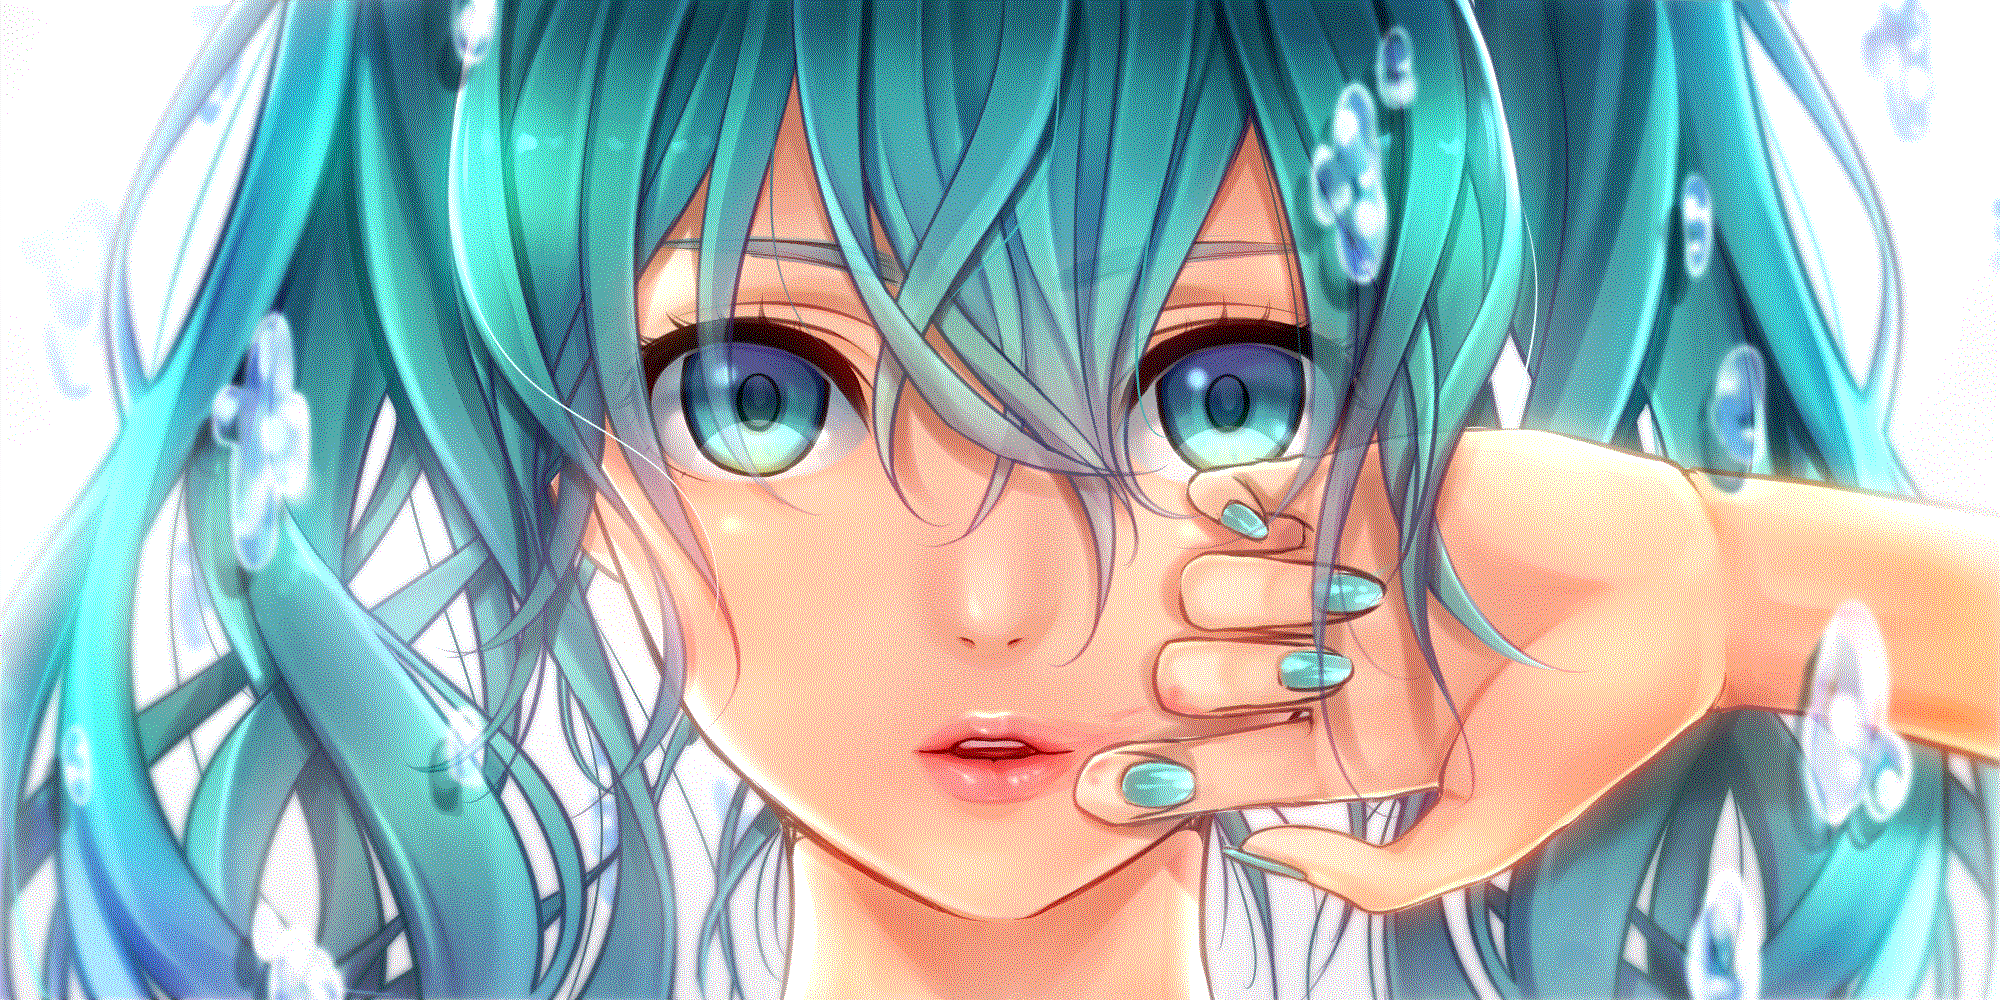
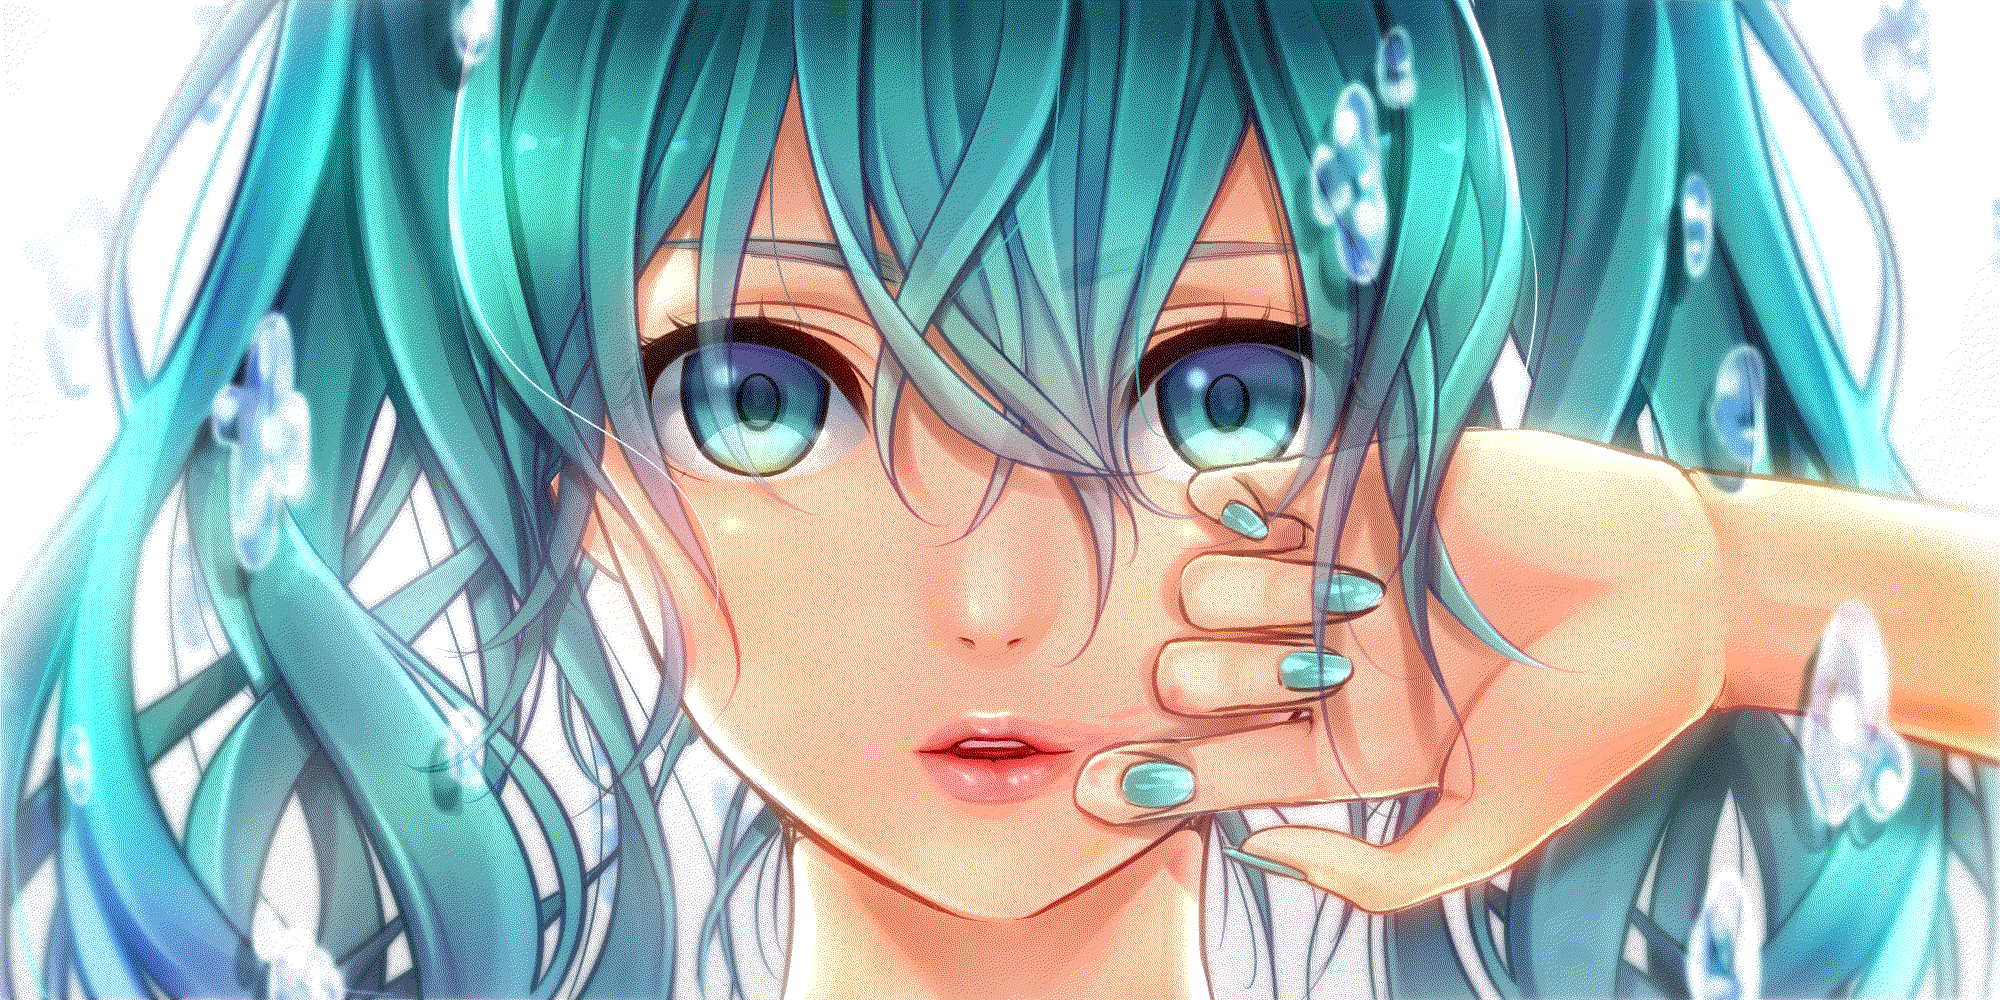
add serpentine dithering and gamma correction

diff --git a/dithering.py b/dithering.py
@@ -5,9 +5,6 @@ Created on Fri Feb 25 15:12:44 2022
 @author: Christian Konstantinov
 """
 
-# TODO: Add alpha channel support
-# TODO: Add filter preturbation
-
 from functools import lru_cache
 from enum import Enum
 from typing import Tuple
@@ -146,39 +143,39 @@ class DiffusionMatrix(Enum):
 
 
 def atkinson(image, bit_depth, serpentine: bool = False):
-    return dither(image, bit_depth, DiffusionMatrix.ATKINSON.bidirectional)
+    return dither(image, bit_depth, DiffusionMatrix.ATKINSON.bidirectional, serpentine)
 
 
 def burkes(image, bit_depth, serpentine: bool = False):
-    return dither(image, bit_depth, DiffusionMatrix.BURKES.bidirectional)
+    return dither(image, bit_depth, DiffusionMatrix.BURKES.bidirectional, serpentine)
 
 
 def floyd_steinberg(image, bit_depth, serpentine: bool = False):
-    return dither(image, bit_depth, DiffusionMatrix.FLOYD_STEINBERG.bidirectional)
+    return dither(image, bit_depth, DiffusionMatrix.FLOYD_STEINBERG.bidirectional, serpentine)
 
 
 def false_floyd_steinberg(image, bit_depth, serpentine: bool = False):
-    return dither(image, bit_depth, DiffusionMatrix.FALSE_FLOYD_STEINBERG.bidirectional)
+    return dither(image, bit_depth, DiffusionMatrix.FALSE_FLOYD_STEINBERG.bidirectional, serpentine)
 
 
 def jarvis_judice_ninke(image, bit_depth, serpentine: bool = False):
-    return dither(image, bit_depth, DiffusionMatrix.JARVIS_JUDICE_NINKE.bidirectional)
+    return dither(image, bit_depth, DiffusionMatrix.JARVIS_JUDICE_NINKE.bidirectional, serpentine)
 
 
 def stucki(image, bit_depth, serpentine: bool = False):
-    return dither(image, bit_depth, DiffusionMatrix.STUCKI.bidirectional)
+    return dither(image, bit_depth, DiffusionMatrix.STUCKI.bidirectional, serpentine)
 
 
 def sierra(image, bit_depth, serpentine: bool = False):
-    return dither(image, bit_depth, DiffusionMatrix.SIERRA.bidirectional)
+    return dither(image, bit_depth, DiffusionMatrix.SIERRA.bidirectional, serpentine)
 
 
 def two_row_sierra(image, bit_depth, serpentine: bool = False):
-    return dither(image, bit_depth, DiffusionMatrix.TWO_ROW_SIERRA.bidirectional)
+    return dither(image, bit_depth, DiffusionMatrix.TWO_ROW_SIERRA.bidirectional, serpentine)
 
 
 def sierra_lite(image, bit_depth, serpentine: bool = False):
-    return dither(image, bit_depth, DiffusionMatrix.SIERRA_LITE.bidirectional)
+    return dither(image, bit_depth, DiffusionMatrix.SIERRA_LITE.bidirectional, serpentine)
 
 
 def lau_arce_gallagher(image, bit_depth, hysteresis_constant: float = 1, threshold: float = 0.0, serpentine: bool = False):
